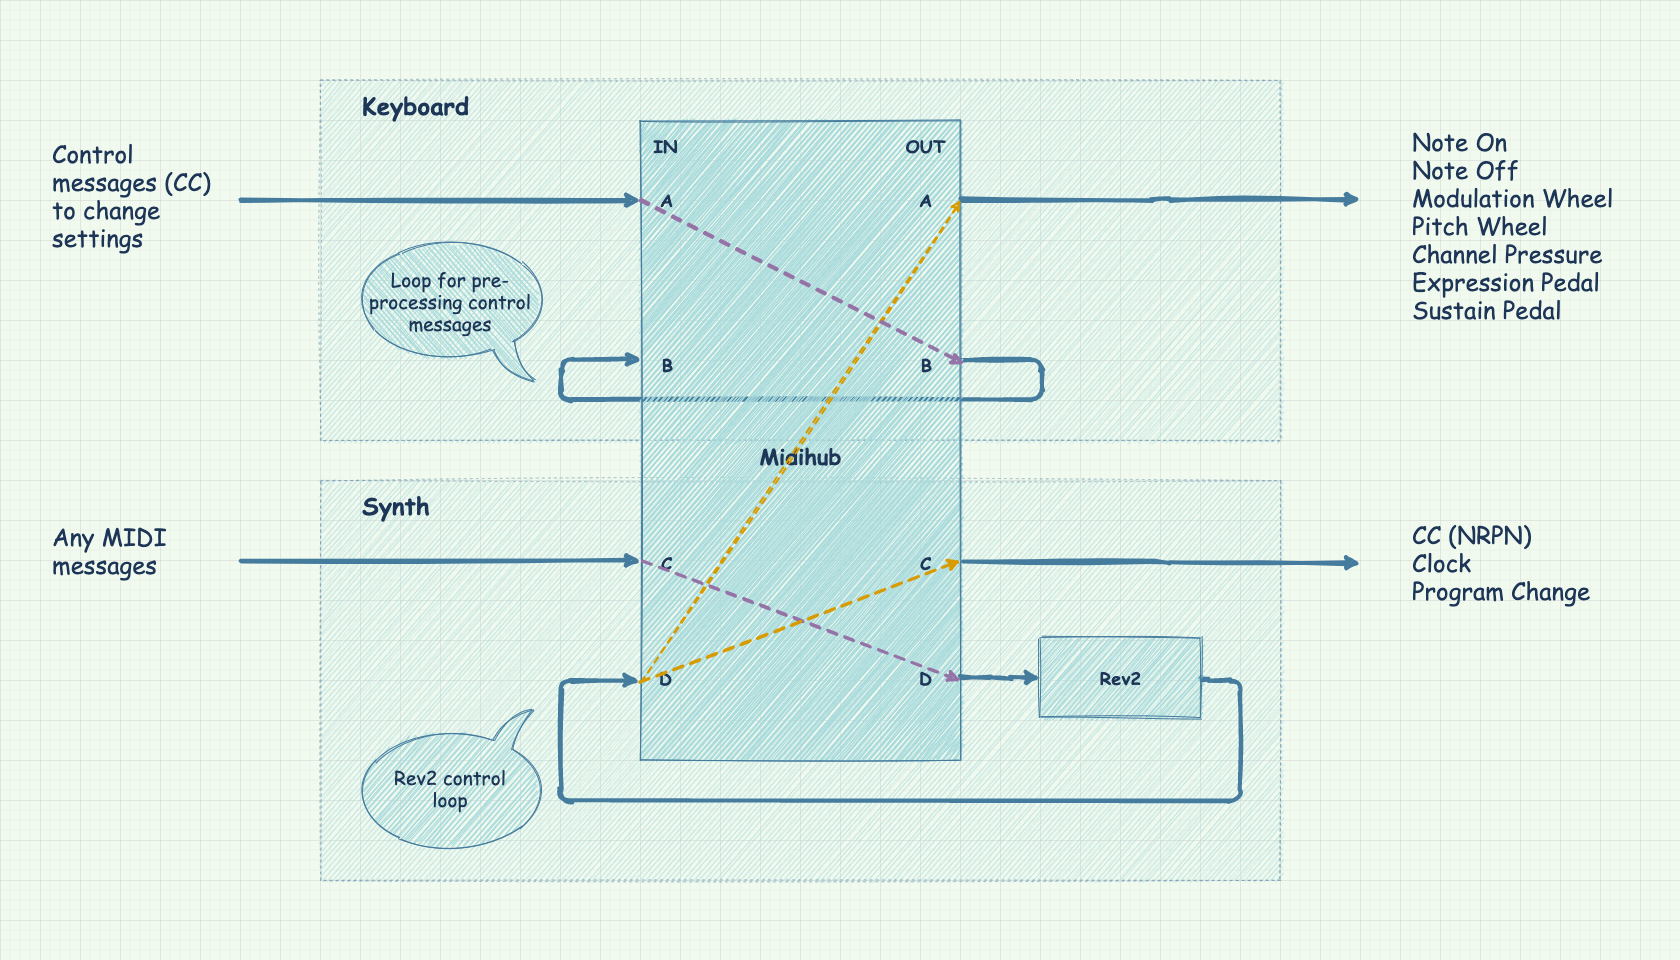
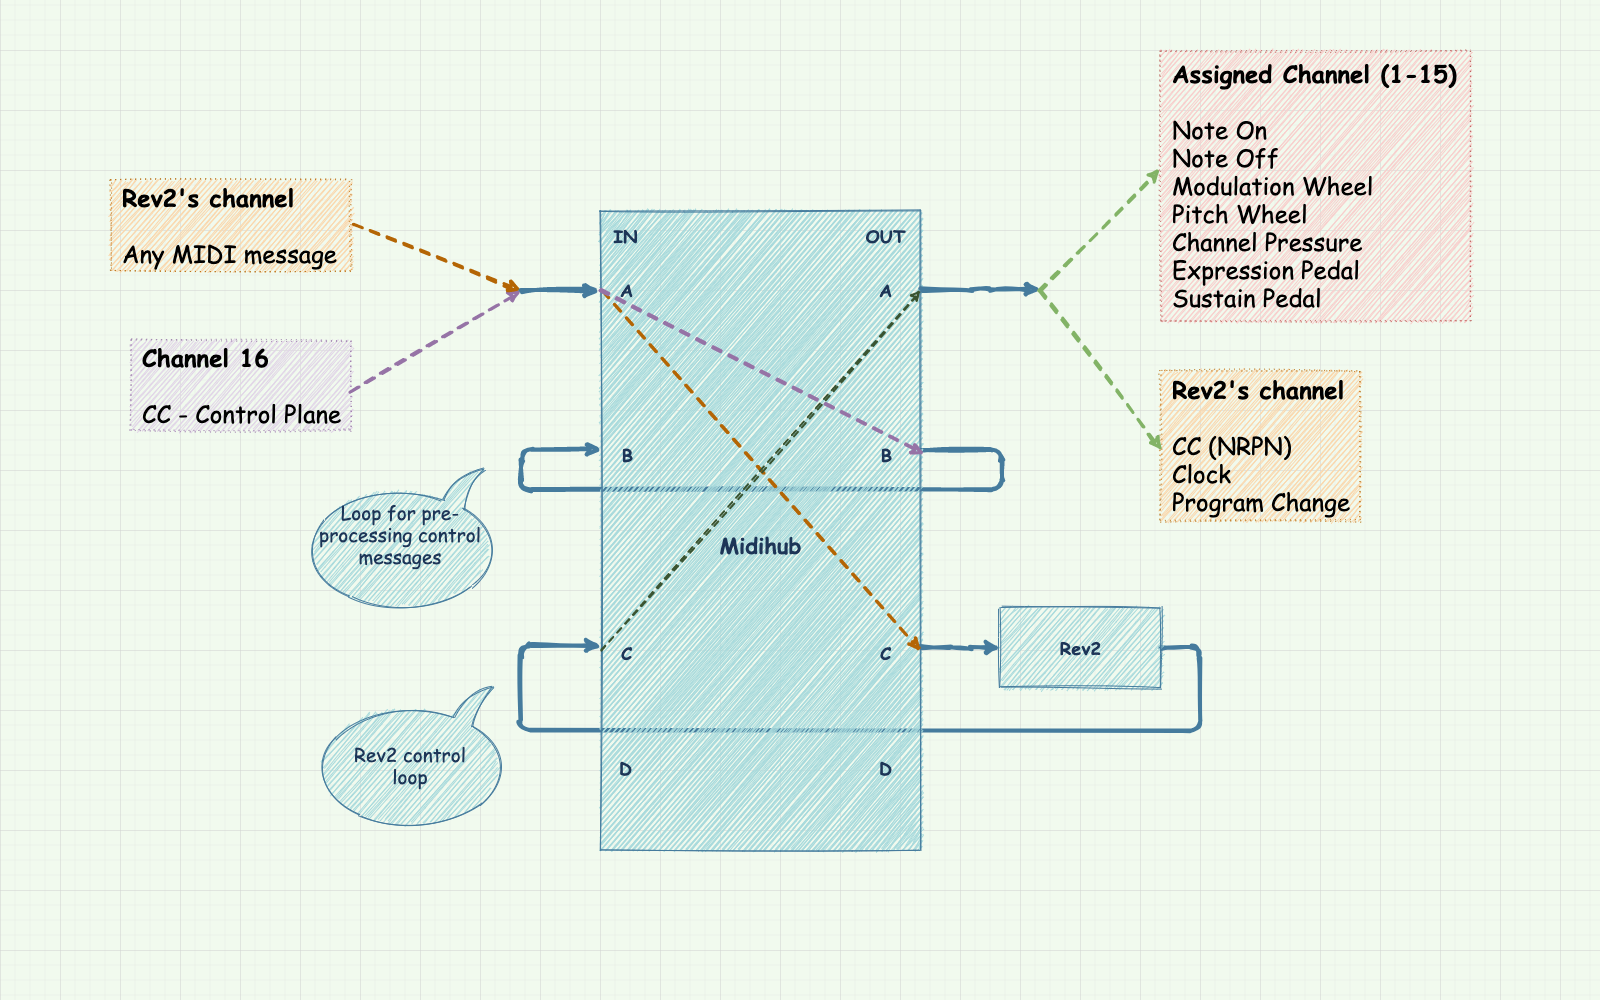
Use a single MIDI in and out port

Changed region(s): [[0.0312, 0.0312, 0.9688, 0.9375], [0.8438, 0.5312, 0.9375, 0.625], [0.0312, 0.5312, 0.0938, 0.625]]

diff --git a/README.md b/README.md
@@ -20,26 +20,15 @@ Using a [Midihub](https://blokas.io/midihub), this project works around these li
 
 # Features
 
-- Use the Rev2 as if it were two independent devices: a **Keyboard** and a **Synth**
-- **Keyboard** outputs on **MIDI OUT A**
-    - Note On
-    - Note Off
-    - Modulation Wheel
-    - Pitch Wheel
-    - Channel Pressure (*Aftertouch*)
-    - Expression Pedal
-    - Sustain Pedal
-- **Synth** outputs on **MIDI OUT C**
-    - CC (NRPN)
-    - Clock
-    - Program Change
+- Split MIDI related to the **Keyboard** into its own MIDI channel, independent of the **Synth**'s channel
+- [**Control**](#control-plane) the **Keyboard**'s MIDI channel, [**Zones**](#zones) and other parameters through MIDI CC
 - **Knobs** operate as if `Local control` would be `On`, i.e. they control the **Synth**
-- [**Keyboard zones**](#zones)
+- [**Zones**](#zones)
     - Split the **Keyboard** into **zones A and B**, independently of the **Synth**'s layers
     - Assign **Zones** to different MIDI channels, independently of the channels the **Synth** operates on
     - Transpose each **Zone** independently, e.g. transpose Zone A by -2 octaves, and Zone B by +1 octave
-- [Control](#control-plane) the **Keyboard** through MIDI CC on **MIDI INPUT A**, e.g. **Zone** split point
-- Send MIDI to the **Synth** on **MIDI INPUT C**
+
+![Diagram](diagram.png "Diagram")
 
 # Usage
 > This section is yet to be written.
@@ -54,7 +43,7 @@ Using a [Midihub](https://blokas.io/midihub), this project works around these li
 # Zones
 The Keyboard can be split into two **Zones** (A and B), which are unrelated and operate completely independently of the Synth's *splits*. In fact, the Rev2's feature of splitting the keyboard into two *splits* is no longer used, with Zones being implemented solely on the Midihub. This gives us the flexibility to, for example, change the octave of each Zone independently, a feature the Rev2 does not provide.
 
-In practice, this means the `Split A|B` button on the device's panel continues to work as expected in what concerns the Synth's *layers*, but has no effect whatsoever on the keyboard. When the `Split A|B` button is lit, each layer continues to be addressable through `MIDI IN C`, on the channels you've previously [configured](setup.md#changing-the-rev2s-midi-channel). This is also the case when the `Stack A|B` button is lit.
+In practice, this means the `Split A|B` button on the device's panel continues to work as expected in what concerns the Synth's *layers*, but has no effect whatsoever on the keyboard. When the `Split A|B` button is lit, each layer continues to be addressable through `MIDI IN A`, on the channels you've previously [configured](setup.md#changing-the-rev2s-midi-channel). This is also the case when the `Stack A|B` button is lit.
 
 You can configure Zones through the [Control Plane](#control-plane).
 
@@ -67,15 +56,15 @@ When working with Rev2 patches which use both layers, `Multimode` must be enable
 ## NRPN
 The Rev2 must be set to send and receive NRPN instead of CC, i.e. both the `MIDI Param Send` and `MIDI Param Rcv` settings must be set to NRPN. See [here](rev2-limitations.md#lfo-and-other-parameters-not-sent-in-cc-mode) for why this is the case.
 
-This means, the Synth (`OUT C`) will output NRPN, and will only accept NRPN as input (`MIDI IN C`). This can be limiting when using the Rev2 with other gear, since most do not support NRPN. For example, you won't be able to automate the filter cutoff frequency with an external sequencer that does not support NRPN, which is the case with many sequencers.
+This means, the Synth (`OUT A`) will output NRPN, and will only accept NRPN as input (`MIDI IN A`). This can be limiting when using the Rev2 with other gear, since most do not support NRPN. For example, you won't be able to automate the filter cutoff frequency with an external sequencer that does not support NRPN, which is the case with many sequencers.
 
 However, there are [plans](https://community.blokas.io/t/convert-cc-to-nrpn/2359/2) to add NRPN-to-CC conversion to the Midihub, which would likely allow this limitation to be addressed.
 
 # Control Plane
-You can control various parameters of the Midihub's patch through MIDI CC messages sent to `MIDI IN A`. By default, **only messages sent on channel 16 are considered**, messages on any other channel are dropped. However, the channel can easily be changed through Midihub's editor.
+You can control various parameters of the Midihub's patch through MIDI CC messages sent to `MIDI IN A`, on channel 16.
 
 ## Zone A MIDI Channel (CC1)
-Set the MIDI Channel of messages produced by Zone A. Note this does **not** control the channel of the Synth's Layer A, that's still configurable through the Rev2's settings. Note that if you do change the channel the Rev2 operates on, will also need to adjust it accordingly in the Midihub's patch. 
+Set the MIDI Channel of messages produced by Zone A. Note this does **not** control the channel of the Synth's Layer A, that's still configurable through the Rev2's settings. If you do change the channel the Rev2 operates on, will also need to [adjust it accordingly in the Midihub's patch](how.md#set-the-midi-channel).
 
 Values of an initialized patch are indicated as **default**.
 
@@ -88,7 +77,7 @@ Values of an initialized patch are indicated as **default**.
 | 16 - 127  | 16                  ||
 
 ## Zone B MIDI Channel (CC2)
-Set the MIDI Channel of messages produced by Zone B.
+Set the MIDI Channel of messages produced by Zone B. Note this does **not** control the channel of the Synth's Layer B, that's still configurable through the Rev2's settings. If you do change the channel the Rev2 operates on, will also need to [adjust it accordingly in the Midihub's patch](how.md#set-the-midi-channel).
 
 Values of an initialized patch are indicated as **default**.
 

diff --git a/setup.md b/setup.md
@@ -4,7 +4,7 @@
 ## Changing the Rev2's MIDI channel
 The Rev2's factory default for Layer A's MIDI channel is channel `1` (which implicitly sets Layer B's MIDI channel to `2`). We use the same default internally in the Midihub's patch.
 
-If you wish to change this default, you must set the channel in the Rev2's global settings, and [edit the Midihub's patch]() accordingly. 
+If you wish to change this default, you must set the channel in the Rev2's global settings, and [edit the Midihub's patch](how.md#set-the-midi-channel) accordingly.
 
 ## Rev2 Global Settings
 Set Rev2 global settings as follows:

diff --git a/how.md b/how.md
@@ -2,10 +2,7 @@
 
 > This documentation is currently being improved.
 
-In essence, a [Midihub](https://blokas.io/midihub/) hardware MIDI processor is used to "split" the Rev2 into two logical devices:
-
-- a keyboard with a MIDI input and a MIDI output
-- a synthesizer with a MIDI input and a MIDI output
+In essence, a [Midihub](https://blokas.io/midihub/) hardware MIDI processor is used to split MIDI messages related to the keyboard into a separate MIDI channel, configurable through the control panel.
 
 ![Diagram](diagram.png "Diagram")
 
